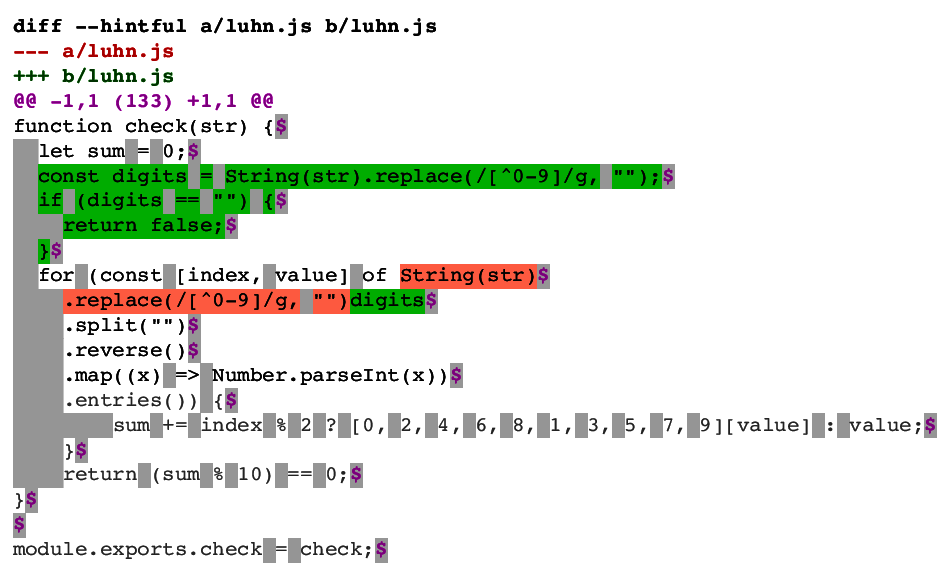
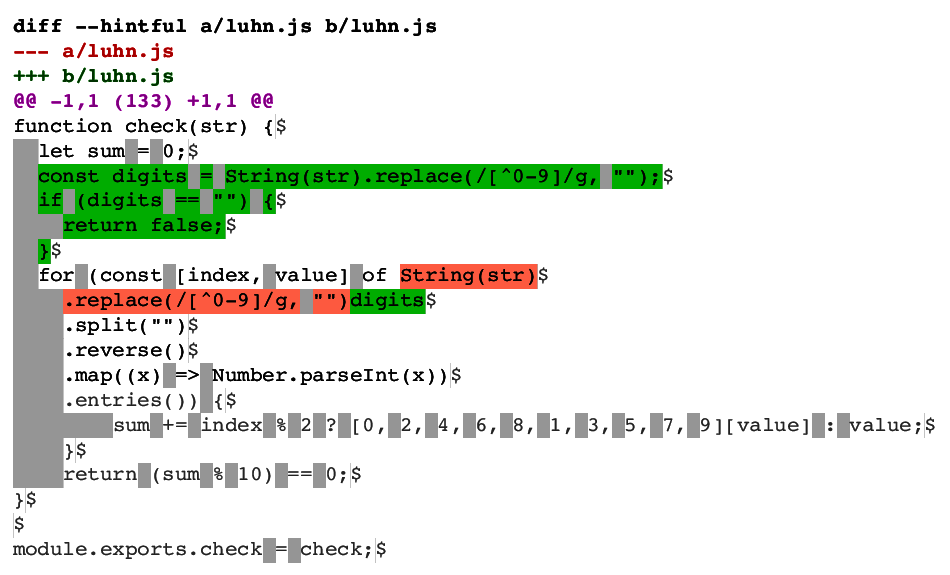
Snippet-centric coloring with file-centric status column
- Background for status column indicates what files content is present
  in.
- Simplify palette to six colors.
- No grey bold.
- Only one background color.
- Same barcolor across all lines.
- New logic for newline marker colorization.

diff --git a/implementations/python3/implementation.py b/implementations/python3/implementation.py
@@ -362,31 +362,31 @@ def formatDiffHelper(inputObjs, task="raw"):
         seenPrefixedHunks=set()
         suppressed=False
         fileKey=None
-        palette=[None, "black", "red", "yellow", "green", "blue", "magenta", "grey", "lightred", "lightyellow", "lightgreen", "lightblue", "lightmagenta", "lightgrey"]
-        snippetcolors={'leftsnippet': 'lightyellow', 'rightsnippet': 'lightblue'}
+        palette=["stdfg", "stdbg", "red", "green", "magenta", "grey"]
+        snippetcolors={'leftsnippet': 'red', 'rightsnippet': 'green'}
         bar='' if task=="raw" else {'op': 'bar'}
         leftsnippetname=''
         rightsnippetname=''
-        def colorize(fg=None, bold=False, bg=None, bg2=None):
+        def colorize(fg="stdfg", bold=False, bg="stdbg"):
             if(task=="raw"): return ''
             if(suppressed):
                 return {
                     'op': 'colorize',
-                    'fg': "lightgrey",
+                    'fg': "grey",
                     'bold': False,
-                    'bg': None,
-                    'bg2': None,
+                    'bg': "stdbg",
                 }
             if(fg not in palette): die(f'Illegal fg color {fg}', None)
             if(bg not in palette): die(f'Illegal bg color {bg}', None)
-            if(bg2 not in palette): die(f'Illegal bg2 color {bg2}', None)
+            if(fg==bg): die(f'Cannot use same fg and bg color.', None)
+            # Grey is used to de-emphasize and bold to emphasize.
+            if(bold and "grey" in [fg, bg]): die(f'Bold grey is illegal.', None)
             if(bold not in [True, False]): die(f'Illegal bold value {bold}', None)
             return {
                 'op': 'colorize',
                 'fg': fg,
                 'bold': bold,
                 'bg': bg,
-                'bg2': bg2,
             }
         for obj in inputObjs:
             op=obj['op']
@@ -429,43 +429,41 @@ def formatDiffHelper(inputObjs, task="raw"):
                 ]
             elif(op.endswith('content')):
                 yield from prefix
-                colorfrom=op
-                if(op in ['leftcontent', 'bothcontent']):
-                    colorfrom+="left"
-                    colorfrom+="snippet" if leftsnippetname else "file"
-                if(op in ['rightcontent', 'bothcontent']):
-                    colorfrom+="right"
-                    colorfrom+="snippet" if rightsnippetname else "file"
-                [                                          char,    charfgcolor, barcolor, contentfgcolor, contentbgcolor, contentbg2color]={
-                    'leftcontentleftfile':                ['-',     "red",       "red",    None,           "lightred",     None],
-                    'leftcontentleftsnippet':             ['-',     "yellow",    "yellow", None,           "lightyellow",  None],
-                    'rightcontentrightfile':              ['+',     "green",     "green",  None,           "lightgreen",   None],
-                    'rightcontentrightsnippet':           ['+',     "blue",      "blue",   None,           "lightblue",    None],
-                    'bothcontentleftfilerightfile':       [' ',     None,        "grey",   None,           None,           None],
-                    'bothcontentleftfilerightsnippet':    [' ',     None,        "grey",   None,           "lightred",     "lightblue"],
-                    'bothcontentleftsnippetrightfile':    [' ',     None,        "grey",   None,           "lightgreen",   "lightyellow"],
-                    'bothcontentleftsnippetrightsnippet': [' ',     None,        "grey",   None,           "lightyellow",  "lightblue"],
-                    'bothlowprioritycontent':             ['_',     "grey",      "grey",   "grey",         None,           None],
-                    'ignorecontent':                      ['#',     "grey",      "grey",   None,           "lightgrey",    None],
-                }[colorfrom]
+                files=""
+                if(op in ['leftcontent', 'bothcontent', 'bothlowprioritycontent'] and not leftsnippetname):
+                    files+="left"
+                if(op in ['rightcontent', 'bothcontent', 'bothlowprioritycontent'] and not rightsnippetname):
+                    files+="right"
+                charbgcolor={'left': 'red', 'right': 'green', '': 'stdfg', 'leftright': 'stdbg'}[files]
+                [                              char, charfgcolor, contentfgcolor, contentbgcolor, nlmfgcolor]={
+                    'leftcontent':            ['-',  "stdfg",     "stdfg",        "red",          "red",     ],
+                    'rightcontent':           ['+',  "stdfg",     "stdfg",        "green",        "green",   ],
+                    'bothcontent':            [' ',  "stdfg",     "stdfg",        "stdbg",        "magenta", ],
+                    'bothlowprioritycontent': ['_',  "grey",      "grey",         "stdbg",        "magenta", ],
+                    'ignorecontent':          ['#',  "grey",      "stdfg",        "grey",         "grey",    ],
+                }[op]
+                if charbgcolor=="stdfg" and charfgcolor=="stdfg":
+                    charfgcolor="stdbg"
                 if not(task=="visualize" and hunktype=="hintful"):
-                    yield colorize(fg=charfgcolor)
+                    yield colorize(fg=charfgcolor, bg=charbgcolor)
                     yield char
                     if not suppressed:
-                        yield colorize(fg=barcolor)
+                        yield colorize(fg="grey")
                         yield bar
                 content = obj['content']
-                yield colorize(fg=contentfgcolor, bg=contentbgcolor, bg2=contentbg2color)
+                yield colorize(fg=contentfgcolor, bg=contentbgcolor)
+                nlmColorize=colorize(fg=nlmfgcolor)
                 if(hunktype=='unified'):
                     yield obj['content']
                     if not obj['content'].endswith('\n'):
                         yield from [
                             '\n',
                             *prefix,
-                            colorize(fg="grey"),
+                            nlmColorize,
                             '\\',
+                            colorize(fg="grey"),
                             bar,
-                            colorize(fg="grey", bg=contentbgcolor),
+                            nlmColorize,
                             ' No newline at end of file\n',
                             ]
                 elif(hunktype=='hintful'):
@@ -473,7 +471,7 @@ def formatDiffHelper(inputObjs, task="raw"):
                         contentm = m(r'^(.*[^\r])?(\r*\n)$', content)
                         yield from [
                             contentm[1] or '',
-                            colorize(fg="magenta", bold=True, bg=contentbgcolor, bg2=contentbg2color),
+                            nlmColorize,
                             '$',
                             contentm[2],
                             ]
@@ -481,7 +479,7 @@ def formatDiffHelper(inputObjs, task="raw"):
                         yield content
                         if not(task=="visualize" and hunktype=="hintful"):
                             yield from [
-                                colorize(fg="magenta", bold=True, bg=contentbgcolor, bg2=contentbg2color),
+                                nlmColorize,
                                 '\\\n',
                             ]
                 else:
@@ -497,7 +495,7 @@ def formatDiffHelper(inputObjs, task="raw"):
                     if glue:
                         yield { 'op': 'beginGlueContent' }
                     yield from [
-                        colorize(fg=snippetcolors[op], bg="black", bold=True),
+                        colorize(fg=snippetcolors[op], bg="stdfg", bold=True),
                         char,
                         obj['name'],
                     ]
@@ -506,8 +504,11 @@ def formatDiffHelper(inputObjs, task="raw"):
                 else:
                     yield from [
                         *prefix,
-                        colorize(fg=snippetcolors[op], bg="black", bold=True),
+                        colorize(fg=snippetcolors[op], bg="stdfg", bold=True),
                         char,
+                        colorize(fg="grey"),
+                        bar,
+                        colorize(fg=snippetcolors[op], bg="stdfg", bold=True),
                         obj['name'],
                         '\n',
                     ]
@@ -611,10 +612,9 @@ def formatDiffHelper(inputObjs, task="raw"):
             if(obj=='\n' and task!="raw"):
                 yield {
                     'op': 'colorize',
-                    'fg': None,
+                    'fg': "stdfg",
                     'bold': False,
-                    'bg': None,
-                    'bg2': None,
+                    'bg': "stdbg",
                 }
             yield obj
     yield from processColorizationEndAtNewline(processNewlineDeferment(separateNewlines(interpretAndColorize(inputObjs))))

diff --git a/make-img/prelude.tex b/make-img/prelude.tex
@@ -4,30 +4,27 @@
 \usepackage{xcolor}
 \pagecolor{white}
 %                                      CIE: | Lightness | Chroma | Hue     |
+\definecolor{stdbg}        {HTML}{ffffff} % |      100% |      0 | -       |
+\definecolor{stdfg}        {HTML}{000000} % |        0% |      0 | -       |
 \definecolor{red}          {HTML}{d10000} % |      7/16 |    max | red     |
 \definecolor{green}        {HTML}{007800} % |      7/16 |    max | green   |
-\definecolor{yellow}       {HTML}{6b6b00} % |      7/16 |    max | yellow  |
-\definecolor{blue}         {HTML}{683efe} % |      7/16 |    max | blue    |
 \definecolor{magenta}      {HTML}{b800b8} % |      7/16 |    max | magenta |
-\definecolor{grey}         {HTML}{676767} % |      7/16 |      0 | grey    |
+\definecolor{grey}         {HTML}{676767} % |      7/16 |      0 | -       |
 \definecolor{lightred}     {HTML}{fea088} % |     12/16 |    max | red     |
 \definecolor{lightgreen}   {HTML}{00d600} % |     12/16 |    max | green   |
-\definecolor{lightyellow}  {HTML}{bebe00} % |     12/16 |    max | yellow  |
-\definecolor{lightblue}    {HTML}{c8a9fe} % |     12/16 |    max | blue    |
 \definecolor{lightmagenta} {HTML}{fe90f9} % |     12/16 |    max | magenta |
-\definecolor{lightgrey}    {HTML}{c9c9c9} % |     13/16 |      0 | grey    |
+\definecolor{lightgrey}    {HTML}{c9c9c9} % |     13/16 |      0 | -       |
 
-% Length used for \bg and \twobg below
+% Length used for \bg below
 \newlength{\tmpWd}
 
 % Commands used in latex-implementation.py
-\newcommand\Bar{\kern-.08pt\rule[-\dp\strutbox]{.16pt}{\baselineskip}}
+\newcommand\Bar{\rule[-\dp\strutbox]{.7pt}{\baselineskip}}
 \newcommand\bg[2]{\strut{\settowidth{\tmpWd}{#2\kern.01pt}{\rlap{\color{#1}{\rule[-\dp\strutbox]{\tmpWd}{\dimexpr\ht\strutbox+\dp\strutbox}}}}#2}}
 \newcommand\bold[1]{{\textbf{#1}}}
 \newcommand\fg[2]{{\color{#1}#2}}
 \newcommand\nl{\par}
 \newcommand\spc{{\strut\space\strut}}
-\newcommand\twobg[3]{\strut{\settowidth{\tmpWd}{#3\kern.01pt}{\rlap{\color{#1}{\rule[-\dp\strutbox]{\tmpWd}{\dimexpr\ht\strutbox+\dp\strutbox}}}}{\rlap{\color{#2}{\rule[-\dp\strutbox]{\tmpWd}{\dp\strutbox}}}}#3}}
 
 % Style
 \usepackage{courierten}

diff --git a/make-img/latex-implementation.py b/make-img/latex-implementation.py
@@ -33,19 +33,23 @@ def formatDiffVisualize(inputObjs):
 def formatLatex(inputObjs):
     contextEnd=""
     noColorization={
-        'fg': None,
+        'fg': "stdfg",
         'bold': False,
-        'bg': None,
-        'bg2': None,
+        'bg': "stdbg",
     }
     currentColorization=noColorization
     for obj in inputObjs:
         if(type(obj)==str):
             yield latexEscape(obj)
         elif(type(obj)==dict and obj['op']=='colorize'):
-            if not((currentColorization['fg']==None or obj['fg']) and
+            obj={**obj}
+            if(obj['bg']=="stdfg" and obj['fg']!="stdbg"):
+                obj['fg']="light"+obj['fg']
+            if not(obj['bg'].startswith("std")):
+                obj['bg']="light"+obj['bg']
+            if not((currentColorization['fg']=="stdfg" or obj['fg']) and
                    currentColorization['bold'] in [False, obj['bold']] and
-                   (currentColorization['bg'], currentColorization['bg2']) in [(None, None), (obj['bg'], obj['bg2'])]):
+                   currentColorization['bg'] in ["stdbg", obj['bg']]):
                 yield contextEnd
                 contextEnd=""
                 currentColorization=noColorization
@@ -55,11 +59,8 @@ def formatLatex(inputObjs):
             if(obj['bold'] and obj['bold']!= currentColorization['bold']):
                 yield r"\bold{"
                 contextEnd+="}"
-            if((obj['bg'] or obj['bg2']) and (obj['bg'], obj['bg2']) != (currentColorization['bg'], currentColorization['bg2'])):
-                if(obj['bg2']):
-                    yield from [r"\twobg{", obj['bg'], r"}{", obj['bg2'], r"}{"]
-                else:
-                    yield from [r"\bg{", obj['bg'], r"}{"]
+            if(obj['bg'] and obj['bg']!=currentColorization['bg']):
+                yield from [r"\bg{", obj['bg'], r"}{"]
                 contextEnd+="}"
             currentColorization=obj
         elif(type(obj)==dict and obj['op']=='bar'):
